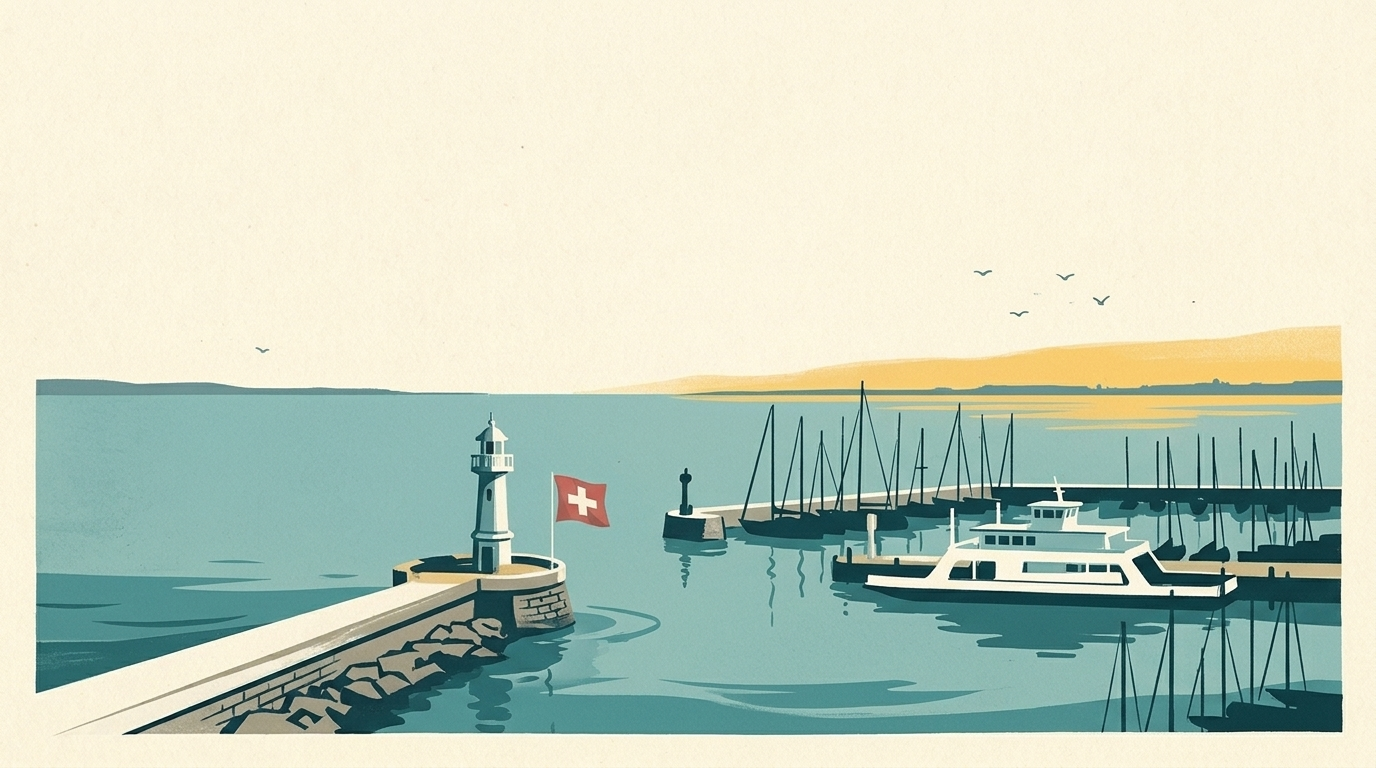
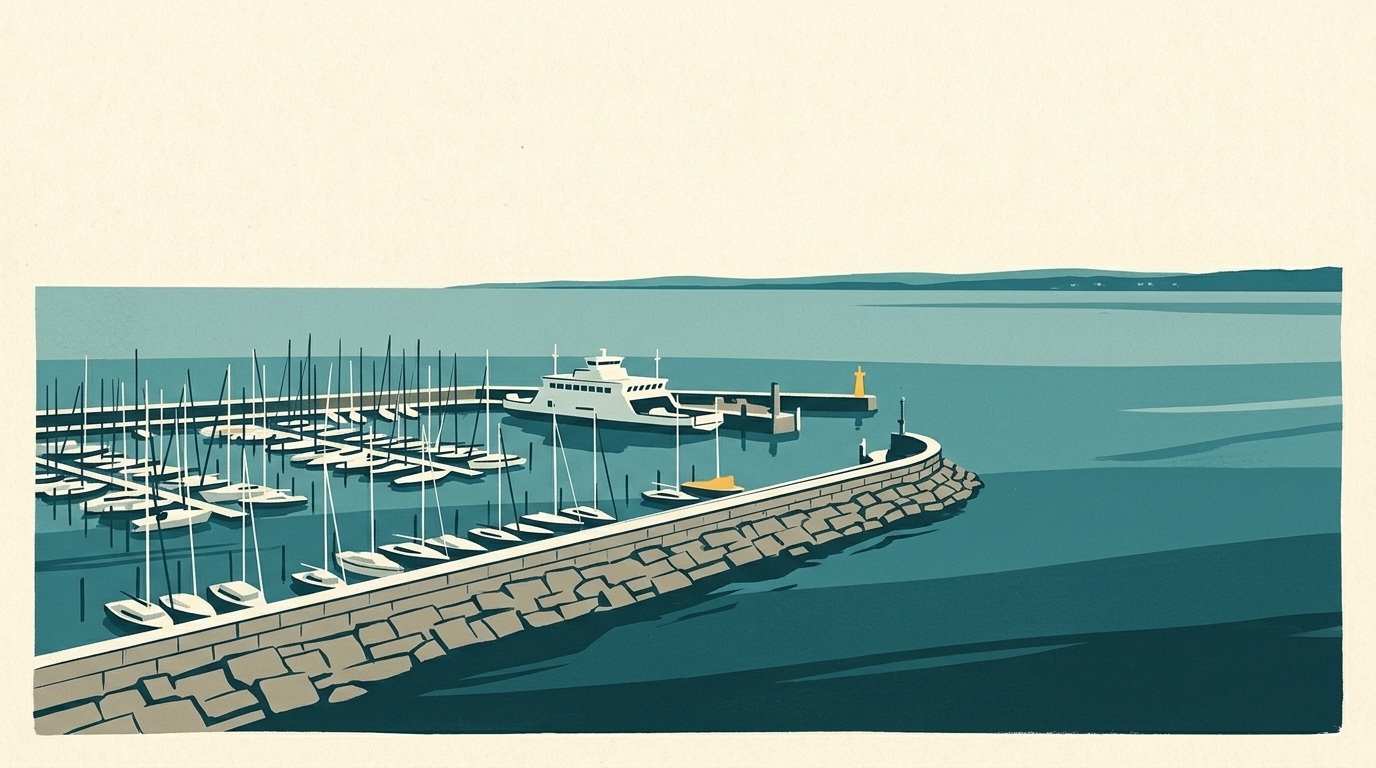
Portraits Joux (Dent de Vaulion en falaise) et Constance (sans phare ni drapeau) refaits ; prompts alignés
Claude-Session: https://claude.ai/code/session_01KRcimvPShRFCtuGJEa8x7J

diff --git a/IMAGES-IA.md b/IMAGES-IA.md
@@ -56,9 +56,9 @@ APRÈS L'IMAGE, écris seulement une ligne :
 Les 40 images ont été générées le 13 novembre 2026 depuis Claude Code (Nano Banana 2.1), avec l'image `bise` comme référence de style : elles sont toutes dans `blog/img/ia/`, en 1376×768, **à valider** avant intégration.
 Aucune page ne les utilise encore. Pour en refaire une, relance son bloc ci-dessous et repousse-la sous le même nom.
 
-Points à vérifier en priorité :
-- `portrait-joux` : la Dent de Vaulion y est un sommet enneigé en pointe, alors que c'est une falaise. À refaire si gênant.
-- `portrait-constance` : phare et drapeau suisse à l'entrée du port, repris de l'image de référence ; Romanshorn a bien un phare, à comparer.
+Corrections faites et points à vérifier :
+- `portrait-joux` : refaite le 13 novembre 2026, la Dent de Vaulion est maintenant une crête boisée qui finit en falaise.
+- `portrait-constance` : refaite le 13 novembre 2026, sans phare ni drapeau (digue, voiliers, ferry).
 - Repères de paysage en général : je ne les ai pas comparés avec des photos.
 
 ## Thèmes du site
@@ -271,7 +271,7 @@ FORMAT : 16:9.
 ```
 @generateur-image-le-lac
 LIEU RÉEL, à rendre reconnaissable : plage du Rocheray, Le Sentier, avec la Dent de Vaulion.
-SCÈNE : a high Jura valley lake in winter at sunset: in the foreground the snowy shore of Le Rocheray; the lake partly frozen; dense dark spruce forests on both sides; at the far end, the distinctive steep cliff of the Dent de Vaulion catching the last golden light.
+SCÈNE : a high Jura valley lake in winter at sunset: in the foreground the snowy shore of Le Rocheray; the lake partly frozen; dense dark spruce forests on both sides; low rounded hills (no Alpine peaks); at the far end of the valley, the Dent de Vaulion: a broad rounded wooded ridge ending abruptly in a steep vertical rock cliff, NOT a pointed snowy peak, catching the last golden light.
 STYLE : flat editorial gouache illustration on cream paper, NOT a photo, not photorealistic. No text, no letters, no signs anywhere.
 FORMAT : 16:9.
 ```
@@ -431,7 +431,7 @@ FORMAT : 16:9.
 ```
 @generateur-image-le-lac
 LIEU RÉEL, à rendre reconnaissable : port de Romanshorn.
-SCÈNE : a vast lake with an almost endless flat horizon under a big sky: in the foreground the harbour of Romanshorn with many sailboat masts and a large white car ferry; a lighthouse at the harbour entrance; the far German shore only a thin line.
+SCÈNE : a vast lake with an almost endless flat horizon under a big sky: in the foreground a long stone harbour wall; inside the harbour of Romanshorn, many sailboats with bare masts and a large white car ferry at its berth; the far German shore only a thin low line; no lighthouse, no flag.
 STYLE : flat editorial gouache illustration on cream paper, NOT a photo, not photorealistic. No text, no letters, no signs anywhere.
 FORMAT : 16:9.
 ```
